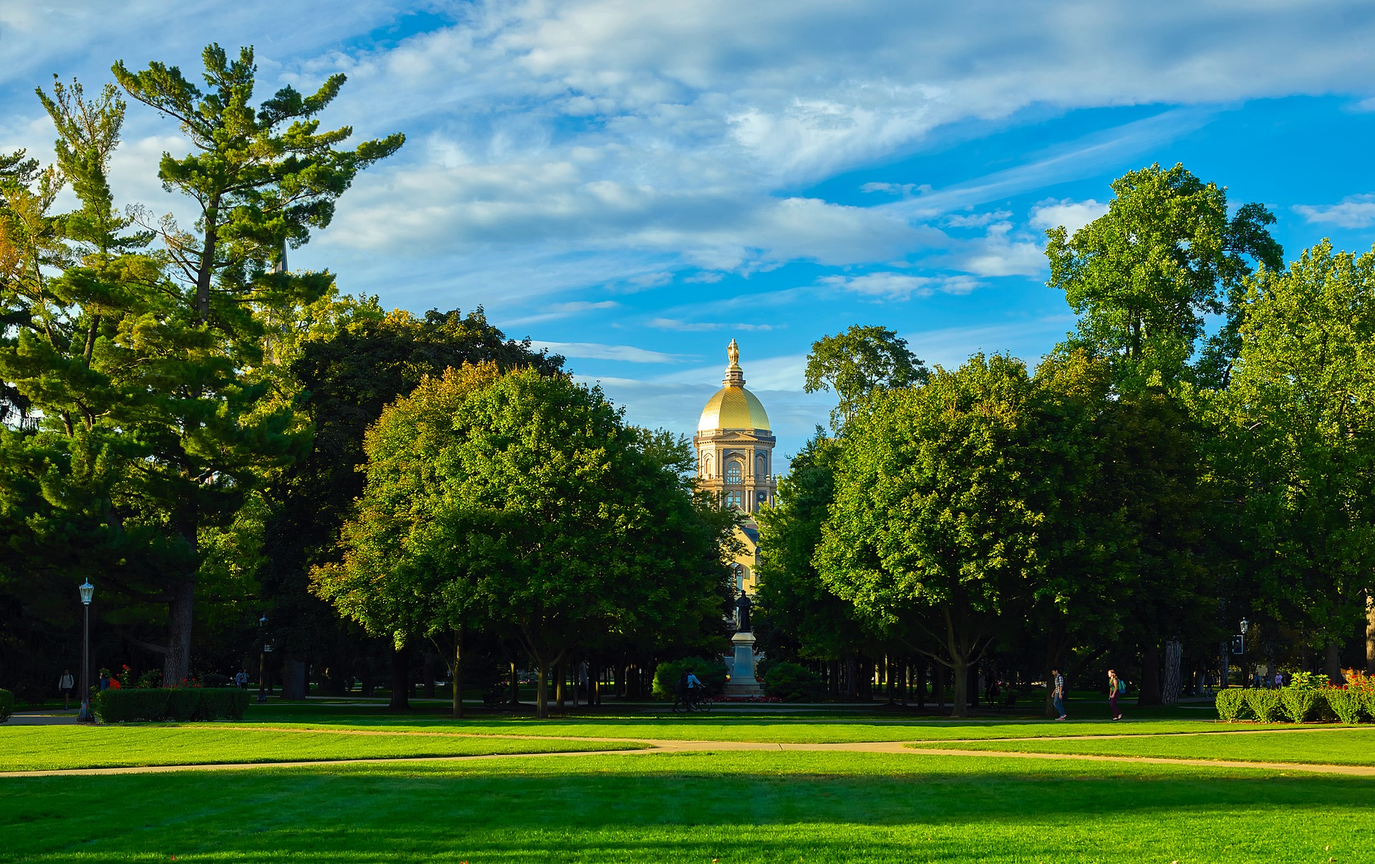
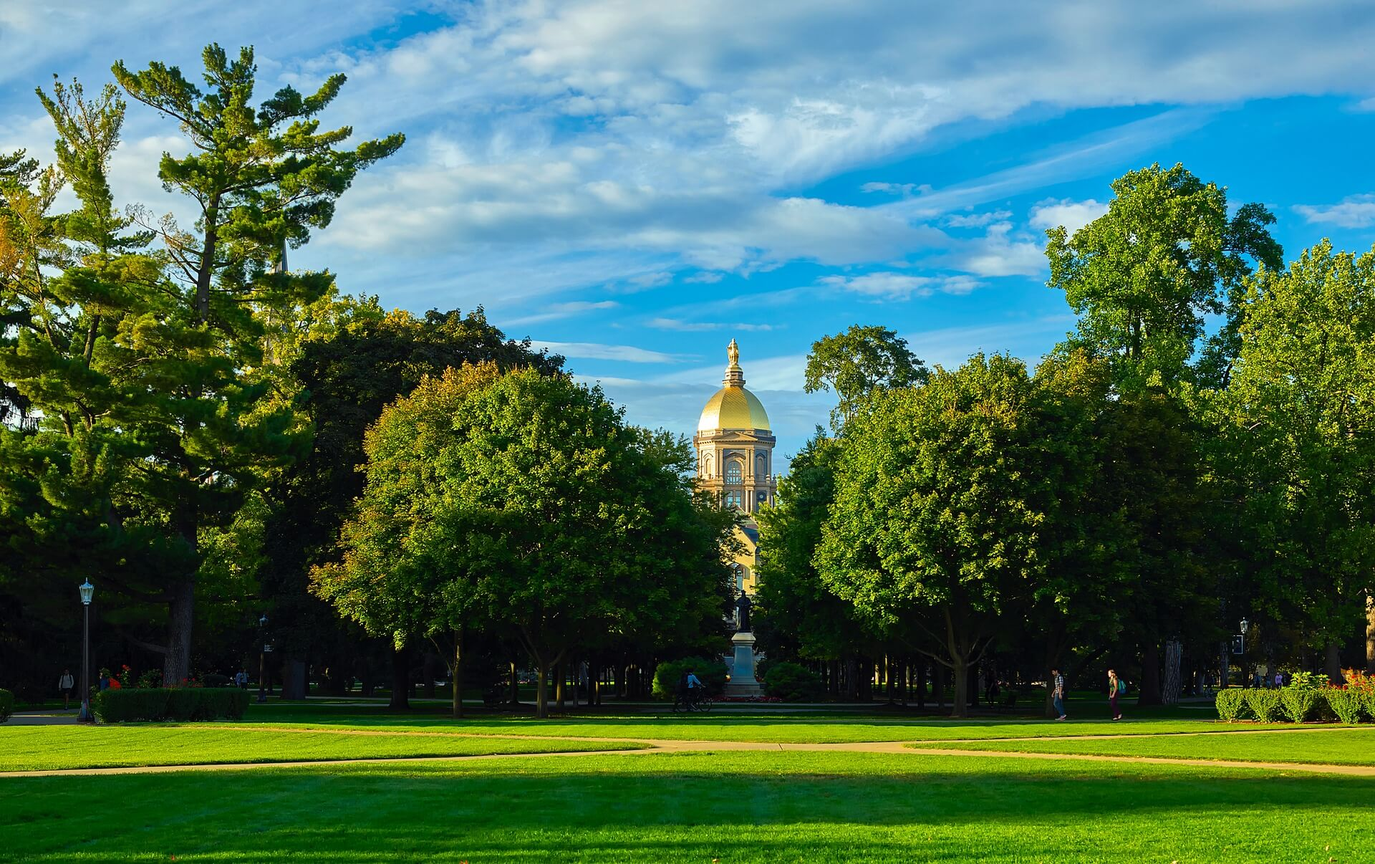
:zap: Compress hero image

diff --git a/Views/static/css/studapp.css b/Views/static/css/studapp.css
@@ -100,6 +100,7 @@
         margin-left: 325px;
     }
 }
+
 @media (min-width: 992px) {
     .hero {
         height: 175px;
@@ -115,6 +116,7 @@
         margin-left: 364px;
     }
 }
+
 @media (min-width: 1200px) {
     .hero-iPhone {
         width: 384px;
@@ -122,5 +124,11 @@
 
     .feature-section ul.list {
         margin-left: 448px;
+    }
+}
+
+@media (min-width: 1800px) {
+    .hero > figure img {
+        margin-top: -20%;
     }
 }

diff --git a/Views/static/css/components.css b/Views/static/css/components.css
@@ -8,7 +8,7 @@
     backdrop-filter: saturate(180%) blur(20px);
     background-color: #ffffffc6;
 
-    border-bottom: 1px solid #d6d6d6d6;
+    border-bottom: 0.5px solid #d6d6d6d6;
 
     overflow-x: scroll;
     overflow-y: hidden;
